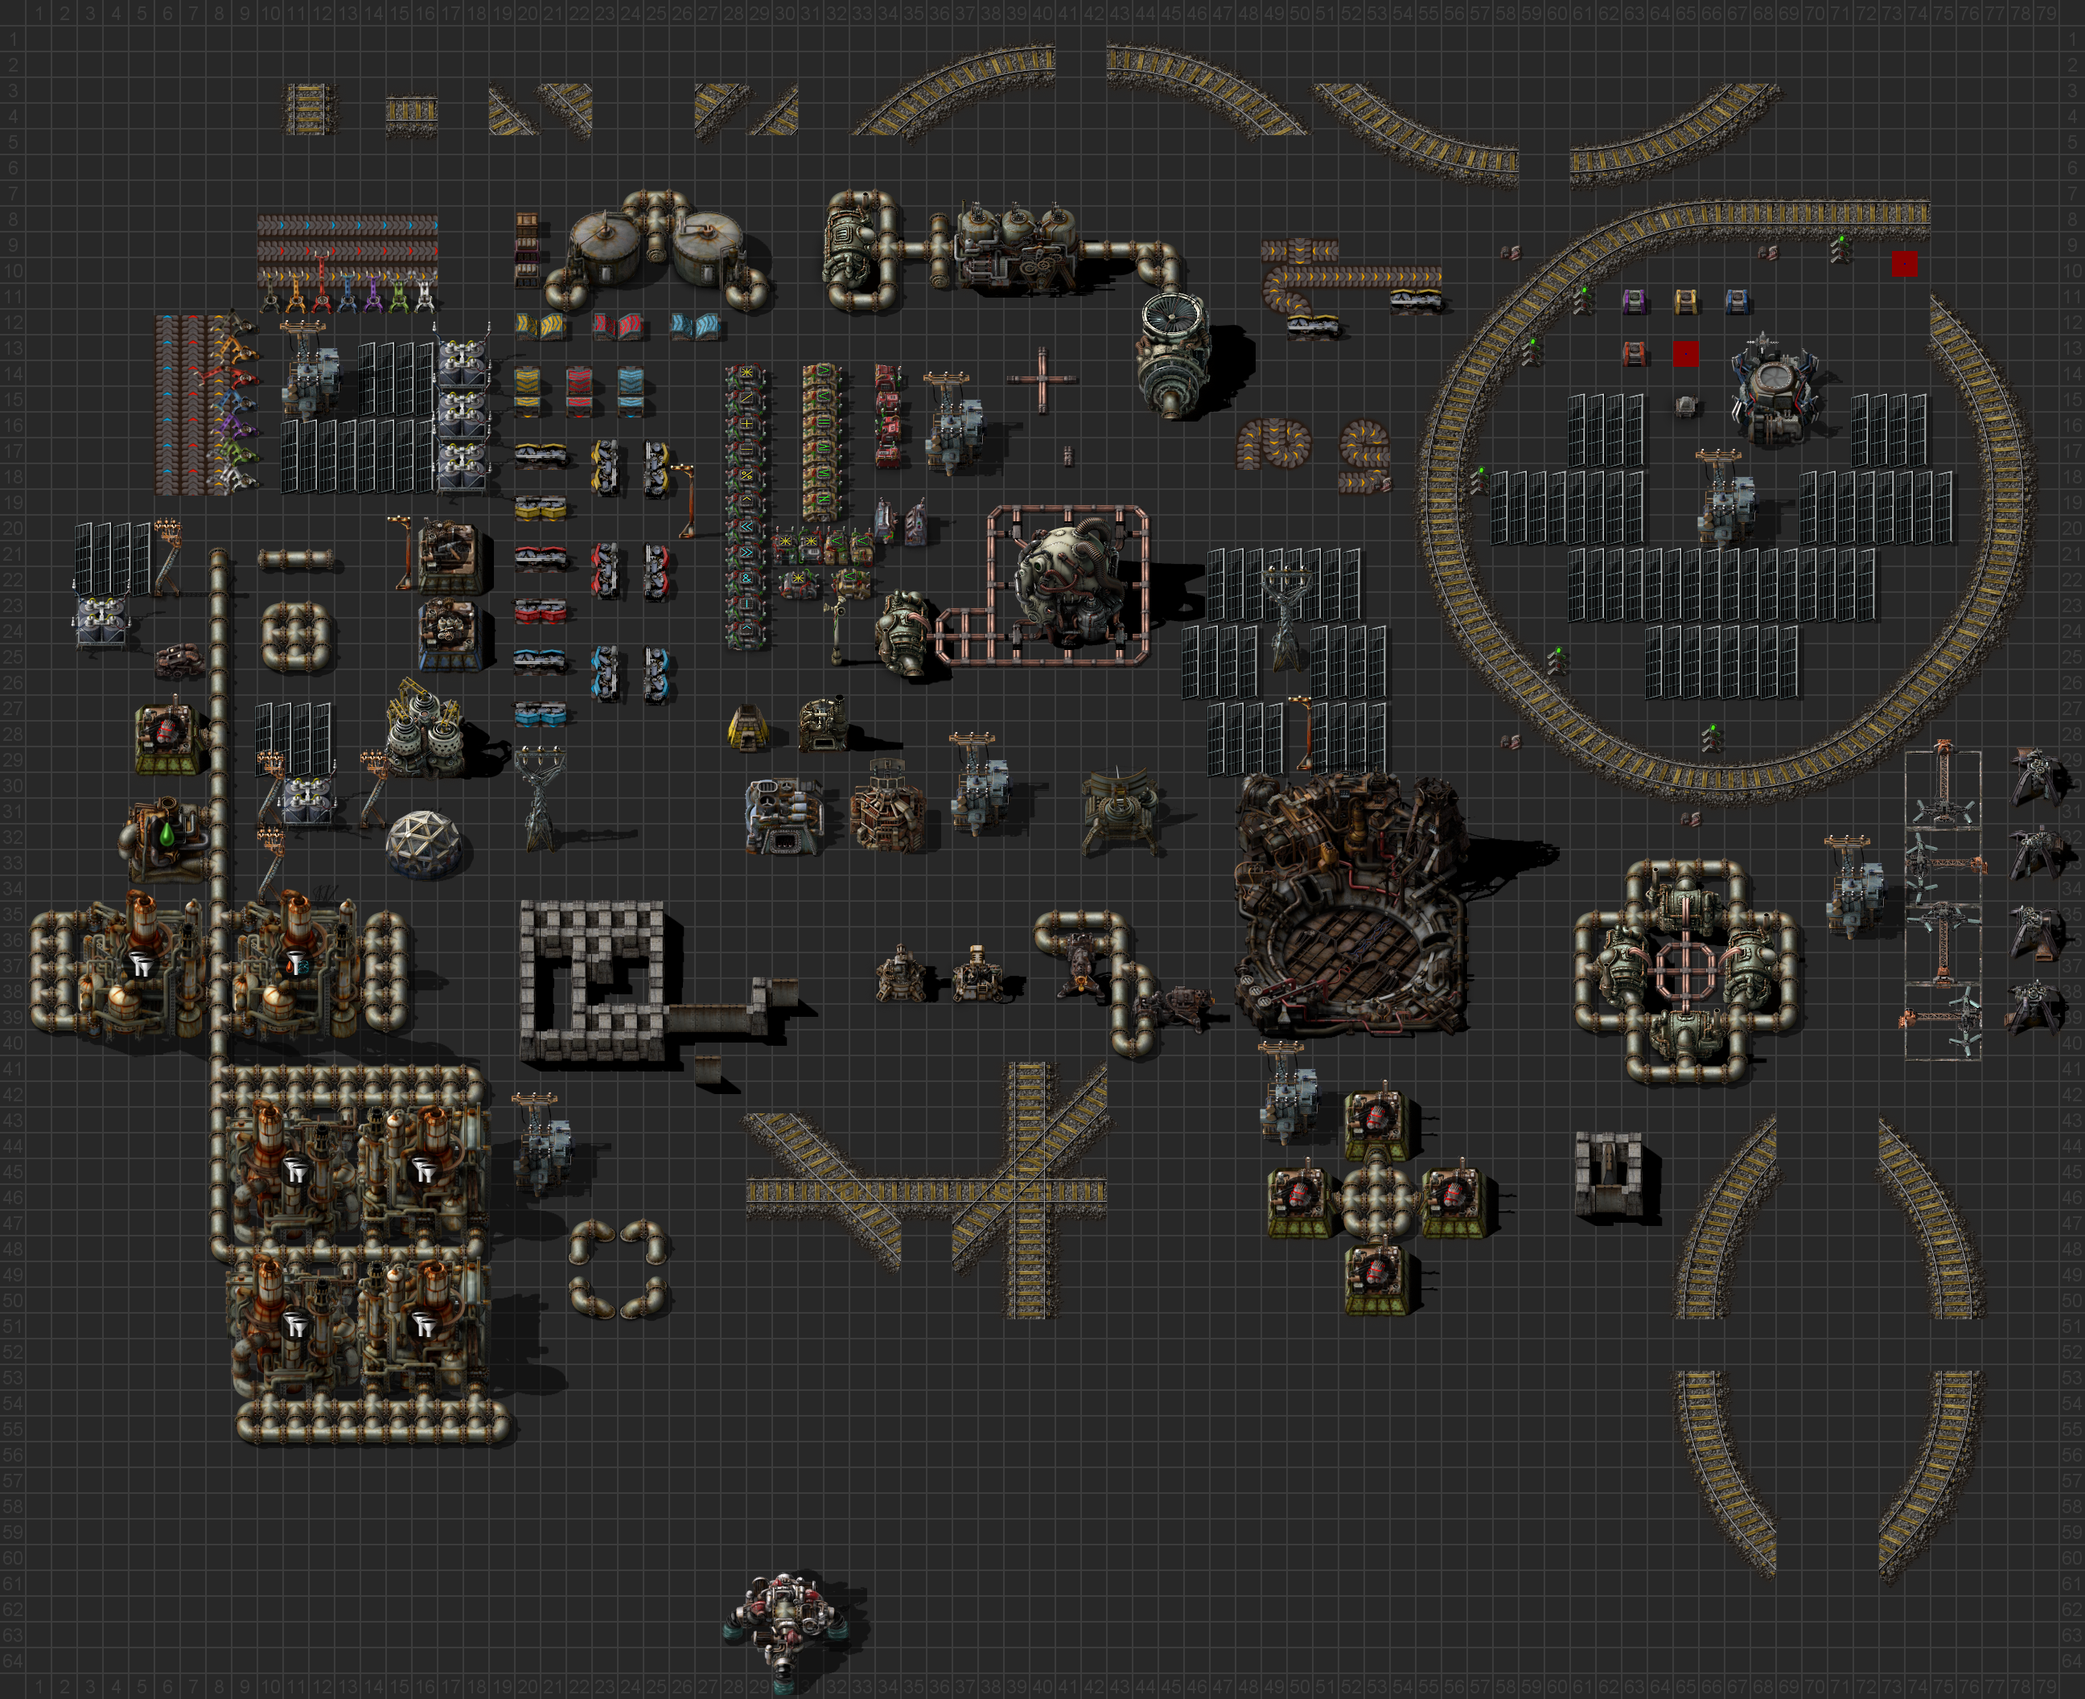
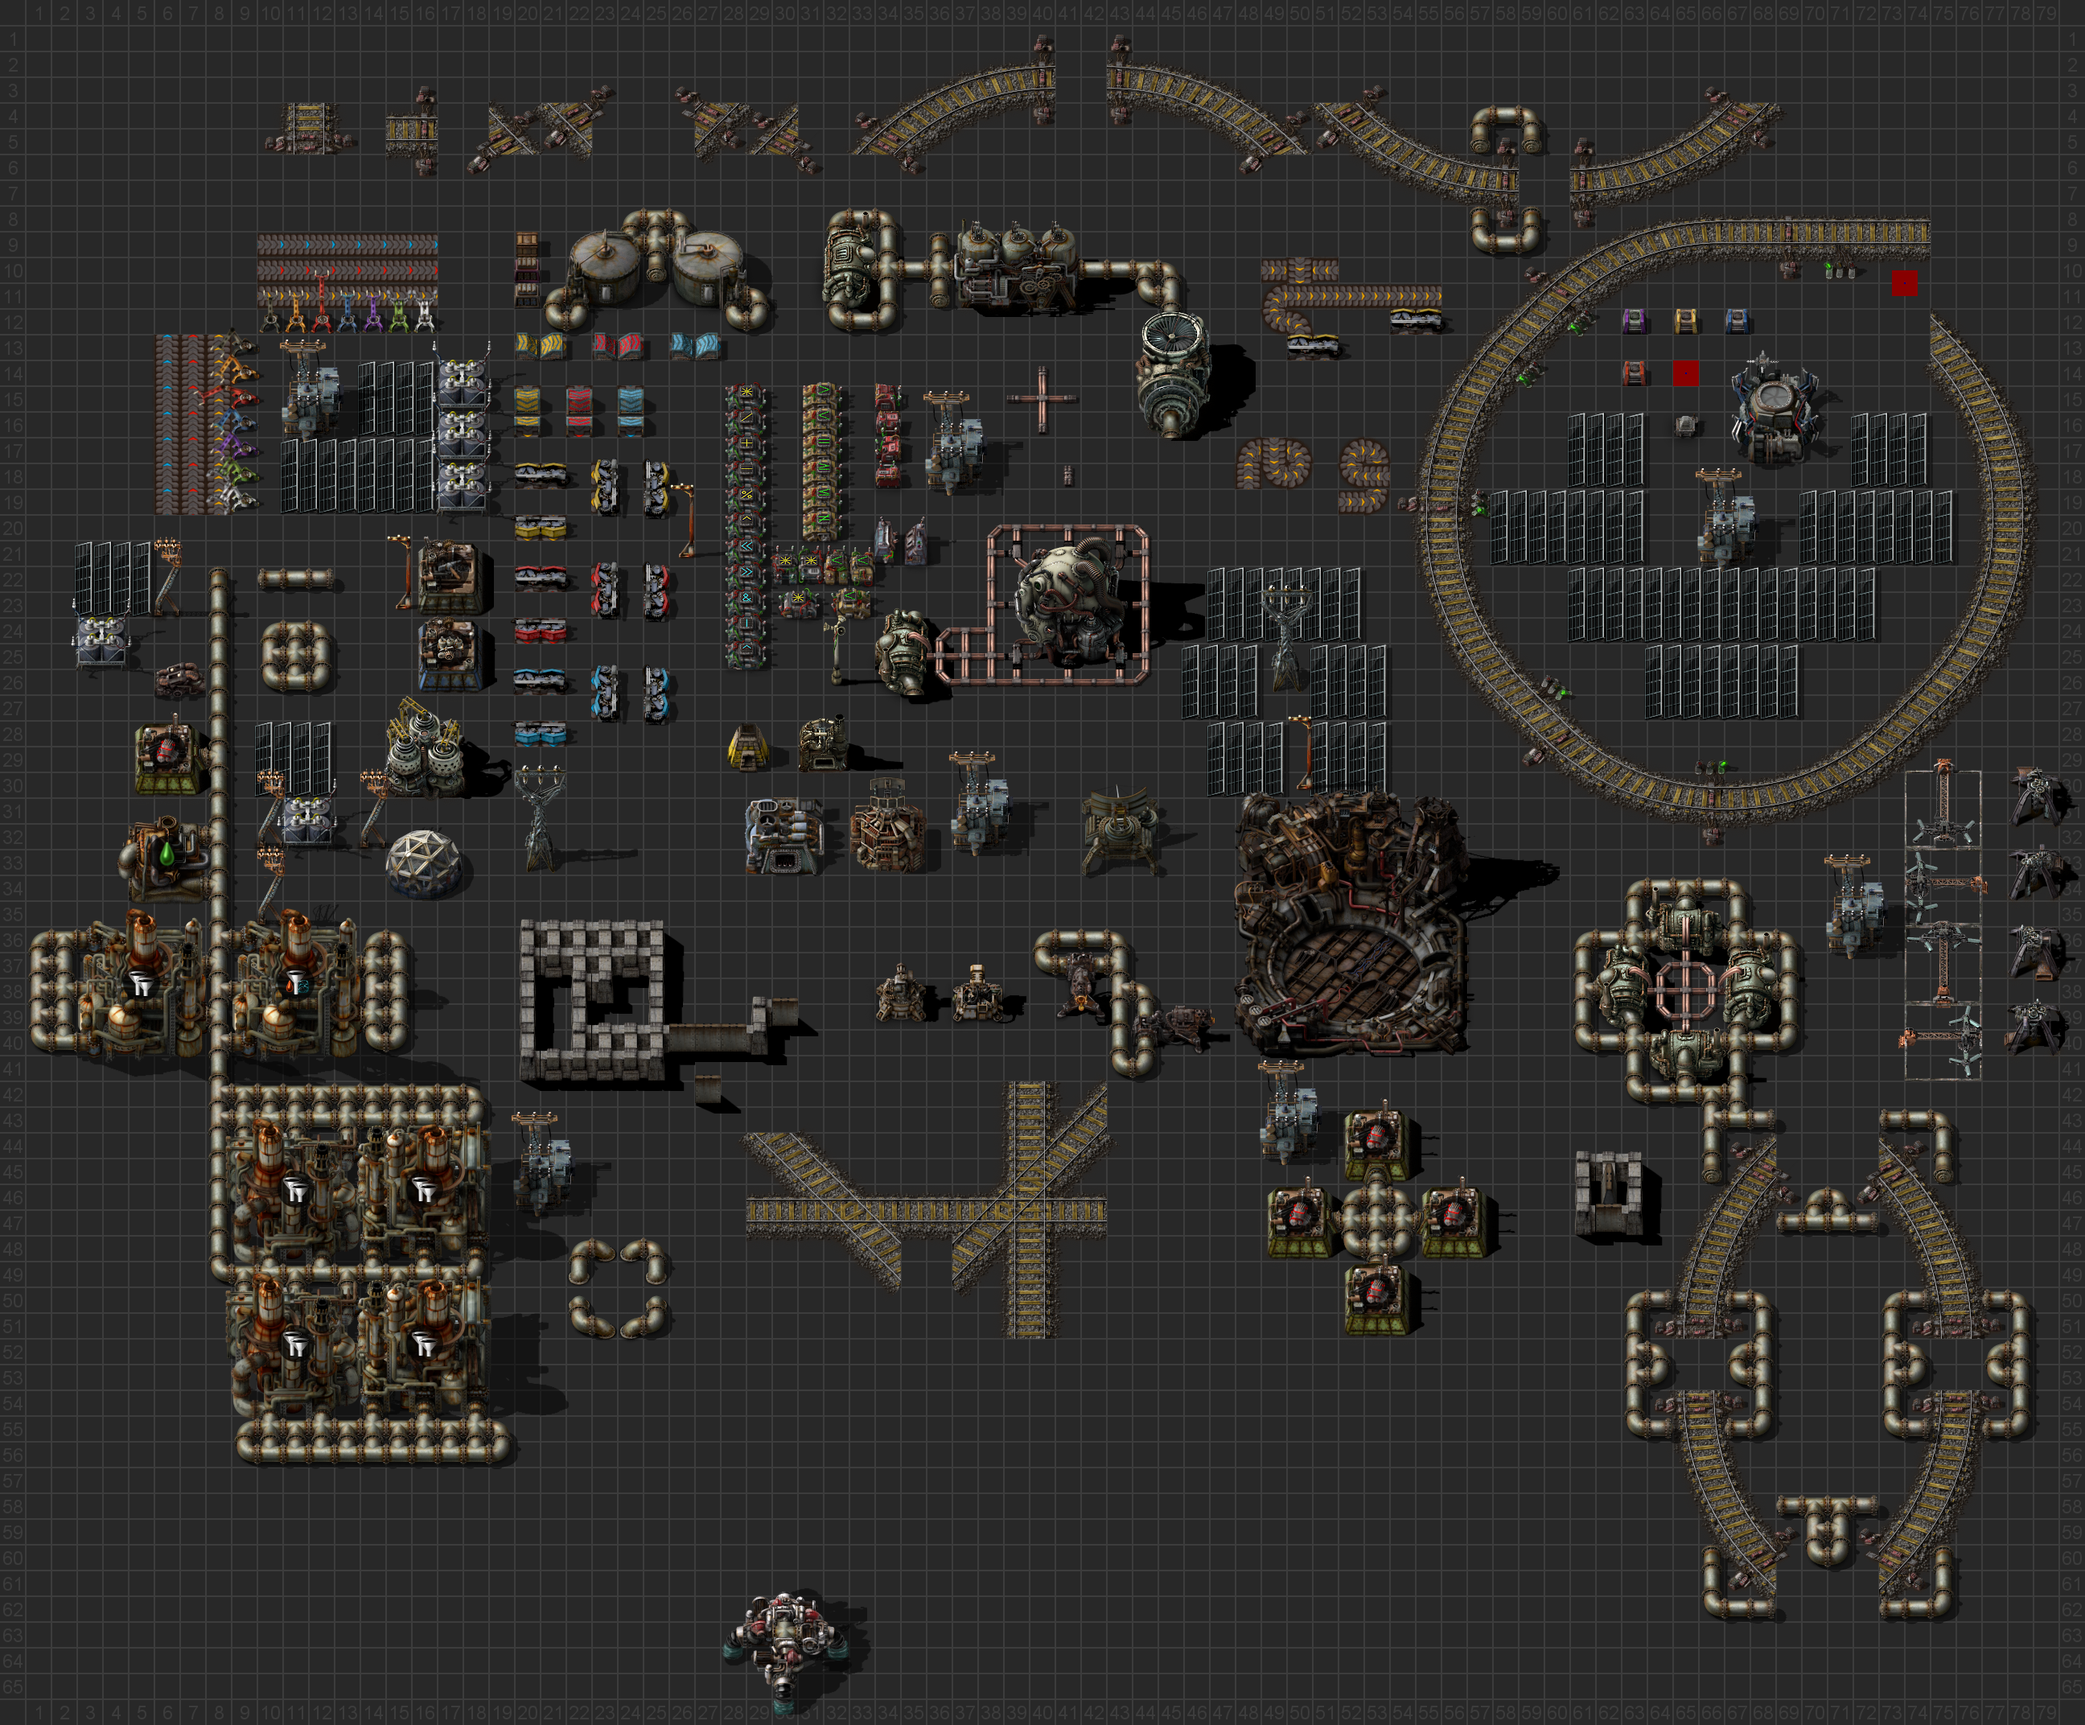
Render rail signals

diff --git a/spritesheet.js b/spritesheet.js
@@ -591,6 +591,39 @@ function curvedRail (entity, data) {
     saveCanvas("images/" + entity + "_horizontal_right_bottom_pass_5.png", processPicture(data.pictures.curved_rail_horizontal_right_bottom.metals.sheet));
 }
 
+function railSignal (entity, data) {
+    for (let i = 0; i < 8; i++){
+        saveCanvas("images/" + entity + "_" + i + ".png", processPicture(data.animation, 0, i * data.animation.height));
+        saveCanvas("images/" + entity + "_rail_" + i + ".png", processPicture(data.rail_piece, i * data.rail_piece.width));
+    }
+}
+
+function railChainSignal (entity, data) {
+    saveCanvas("images/" + entity + "_0.png", extendCanvas(processPicture(data.animation), 0, 0, 0, 64));
+    saveCanvas("images/" + entity + "_rail_0.png", extendCanvas(processPicture(data.rail_piece), 0, 0, 0, 64));
+
+    saveCanvas("images/" + entity + "_1.png", extendCanvas(processPicture(data.animation, 0, 1 * data.animation.height), 64, 0, 0, 64));
+    saveCanvas("images/" + entity + "_rail_1.png", extendCanvas(processPicture(data.rail_piece, 1 * data.rail_piece.width), 64, 0, 0, 64));
+
+    saveCanvas("images/" + entity + "_2.png", extendCanvas(processPicture(data.animation, 0, 2 * data.animation.height), 64, 0, 0, 0));
+    saveCanvas("images/" + entity + "_rail_2.png", extendCanvas(processPicture(data.rail_piece, 2 * data.rail_piece.width), 64, 0, 0, 0));
+
+    saveCanvas("images/" + entity + "_3.png", extendCanvas(processPicture(data.animation, 0, 3 * data.animation.height), 64, 64, 0, 0));
+    saveCanvas("images/" + entity + "_rail_3.png", extendCanvas(processPicture(data.rail_piece, 3 * data.rail_piece.width), 64, 64, 0, 0));
+
+    saveCanvas("images/" + entity + "_4.png", extendCanvas(processPicture(data.animation, 0, 4 * data.animation.height), 0, 128, 0, 0));
+    saveCanvas("images/" + entity + "_rail_4.png", extendCanvas(processPicture(data.rail_piece, 4 * data.rail_piece.width), 0, 128, 0, 0));
+
+    saveCanvas("images/" + entity + "_5.png", extendCanvas(processPicture(data.animation, 0, 5 * data.animation.height), 0, 64, 64, 0));
+    saveCanvas("images/" + entity + "_rail_5.png", extendCanvas(processPicture(data.rail_piece, 5 * data.rail_piece.width), 0, 64, 64, 0));
+
+    saveCanvas("images/" + entity + "_6.png", extendCanvas(processPicture(data.animation, 0, 6 * data.animation.height), 0, 0, 128, 0));
+    saveCanvas("images/" + entity + "_rail_6.png", extendCanvas(processPicture(data.rail_piece, 6 * data.rail_piece.width), 0, 0, 128, 0));
+
+    saveCanvas("images/" + entity + "_7.png", extendCanvas(processPicture(data.animation, 0, 7 * data.animation.height), 0, 0, 64, 64));
+    saveCanvas("images/" + entity + "_rail_7.png", extendCanvas(processPicture(data.rail_piece, 7 * data.rail_piece.width), 0, 0, 64, 64));
+}
+
 const special = {
     "curved-rail": curvedRail,
     "straight-rail": straightRail,
@@ -623,7 +656,9 @@ const special = {
     "storage-tank": storageTank,
     "flamethrower-turret": flamethrowerTurret,
     "laser-turret": normalTurret,
-    "gun-turret": normalTurret
+    "gun-turret": normalTurret,
+    "rail-signal": railSignal,
+    "rail-chain-signal": railChainSignal
 };
 
 for (let category in data) {

diff --git a/factorio.js b/factorio.js
@@ -42,7 +42,9 @@ const renderers = {
     "burner-mining-drill": "burner-mining-drill",
     "flamethrower-turret": "flamethrower-turret",
     "straight-rail": "straight-rail",
-    "curved-rail": "curved-rail"
+    "curved-rail": "curved-rail",
+    "rail-signal": "rail-signal",
+    "rail-chain-signal": "rail-signal"
 };
 
 let gameData = null;
@@ -195,11 +197,16 @@ class Blueprint {
         }
 
         // Second pass: rails
-        for (let pass = 1; pass <= 5; pass++) {
+        let passes = [1, 2, 3, 3.5, 4, 5];
+        for (let z in passes) {
+            const pass = passes[z];
             for (let i = 0; i < this.entities.length; i++) {
                 const entity = this.entities[i];
 
-                if (entity.name !== "straight-rail" && entity.name !== "curved-rail") {
+                if (entity.name !== "straight-rail"
+                    && entity.name !== "curved-rail"
+                    && entity.name !== "rail-signal"
+                    && entity.name !== "rail-chain-signal") {
                     continue
                 }
 
@@ -224,7 +231,7 @@ class Blueprint {
                     } else if (direction === 7) {
                         image = imageResolver(entity.name + "_diagonal_left_top_pass_" + pass, false);
                     }
-                } else {
+                } else if (entity.name === "curved-rail") {
                     if (direction === 0) {
                         image = imageResolver(entity.name + "_vertical_left_bottom_pass_" + pass, false);
                     } else if (direction === 1) {
@@ -241,6 +248,14 @@ class Blueprint {
                         image = imageResolver(entity.name + "_horizontal_right_bottom_pass_" + pass, false);
                     } else if (direction === 7) {
                         image = imageResolver(entity.name + "_horizontal_right_top_pass_" + pass, false);
+                    }
+                } else if (entity.name === "rail-signal") {
+                    if (pass === 3.5) {
+                        image = imageResolver(entity.name + "_rail_" + (entity.direction || 0), false);
+                    }
+                } else if (entity.name === "rail-chain-signal") {
+                    if (pass === 3.5) {
+                        image = imageResolver(entity.name + "_rail_" + (entity.direction || 0), false);
                     }
                 }
 

diff --git a/renderers/rail-signal.js b/renderers/rail-signal.js
@@ -1,0 +1,22 @@
+function render (entity, grid, imageResolver) {
+    return imageResolver(entity.name + "_" + (entity.direction || 0));
+}
+
+function renderShadow (entity, grid, imageResolver) {
+    // No Shadow
+}
+
+function getKey (entity, grid) {
+    return entity.direction || 0
+}
+
+function getSize (entity) {
+    return [1, 1]
+}
+
+module.exports = {
+    render,
+    renderShadow,
+    getKey,
+    getSize
+};
